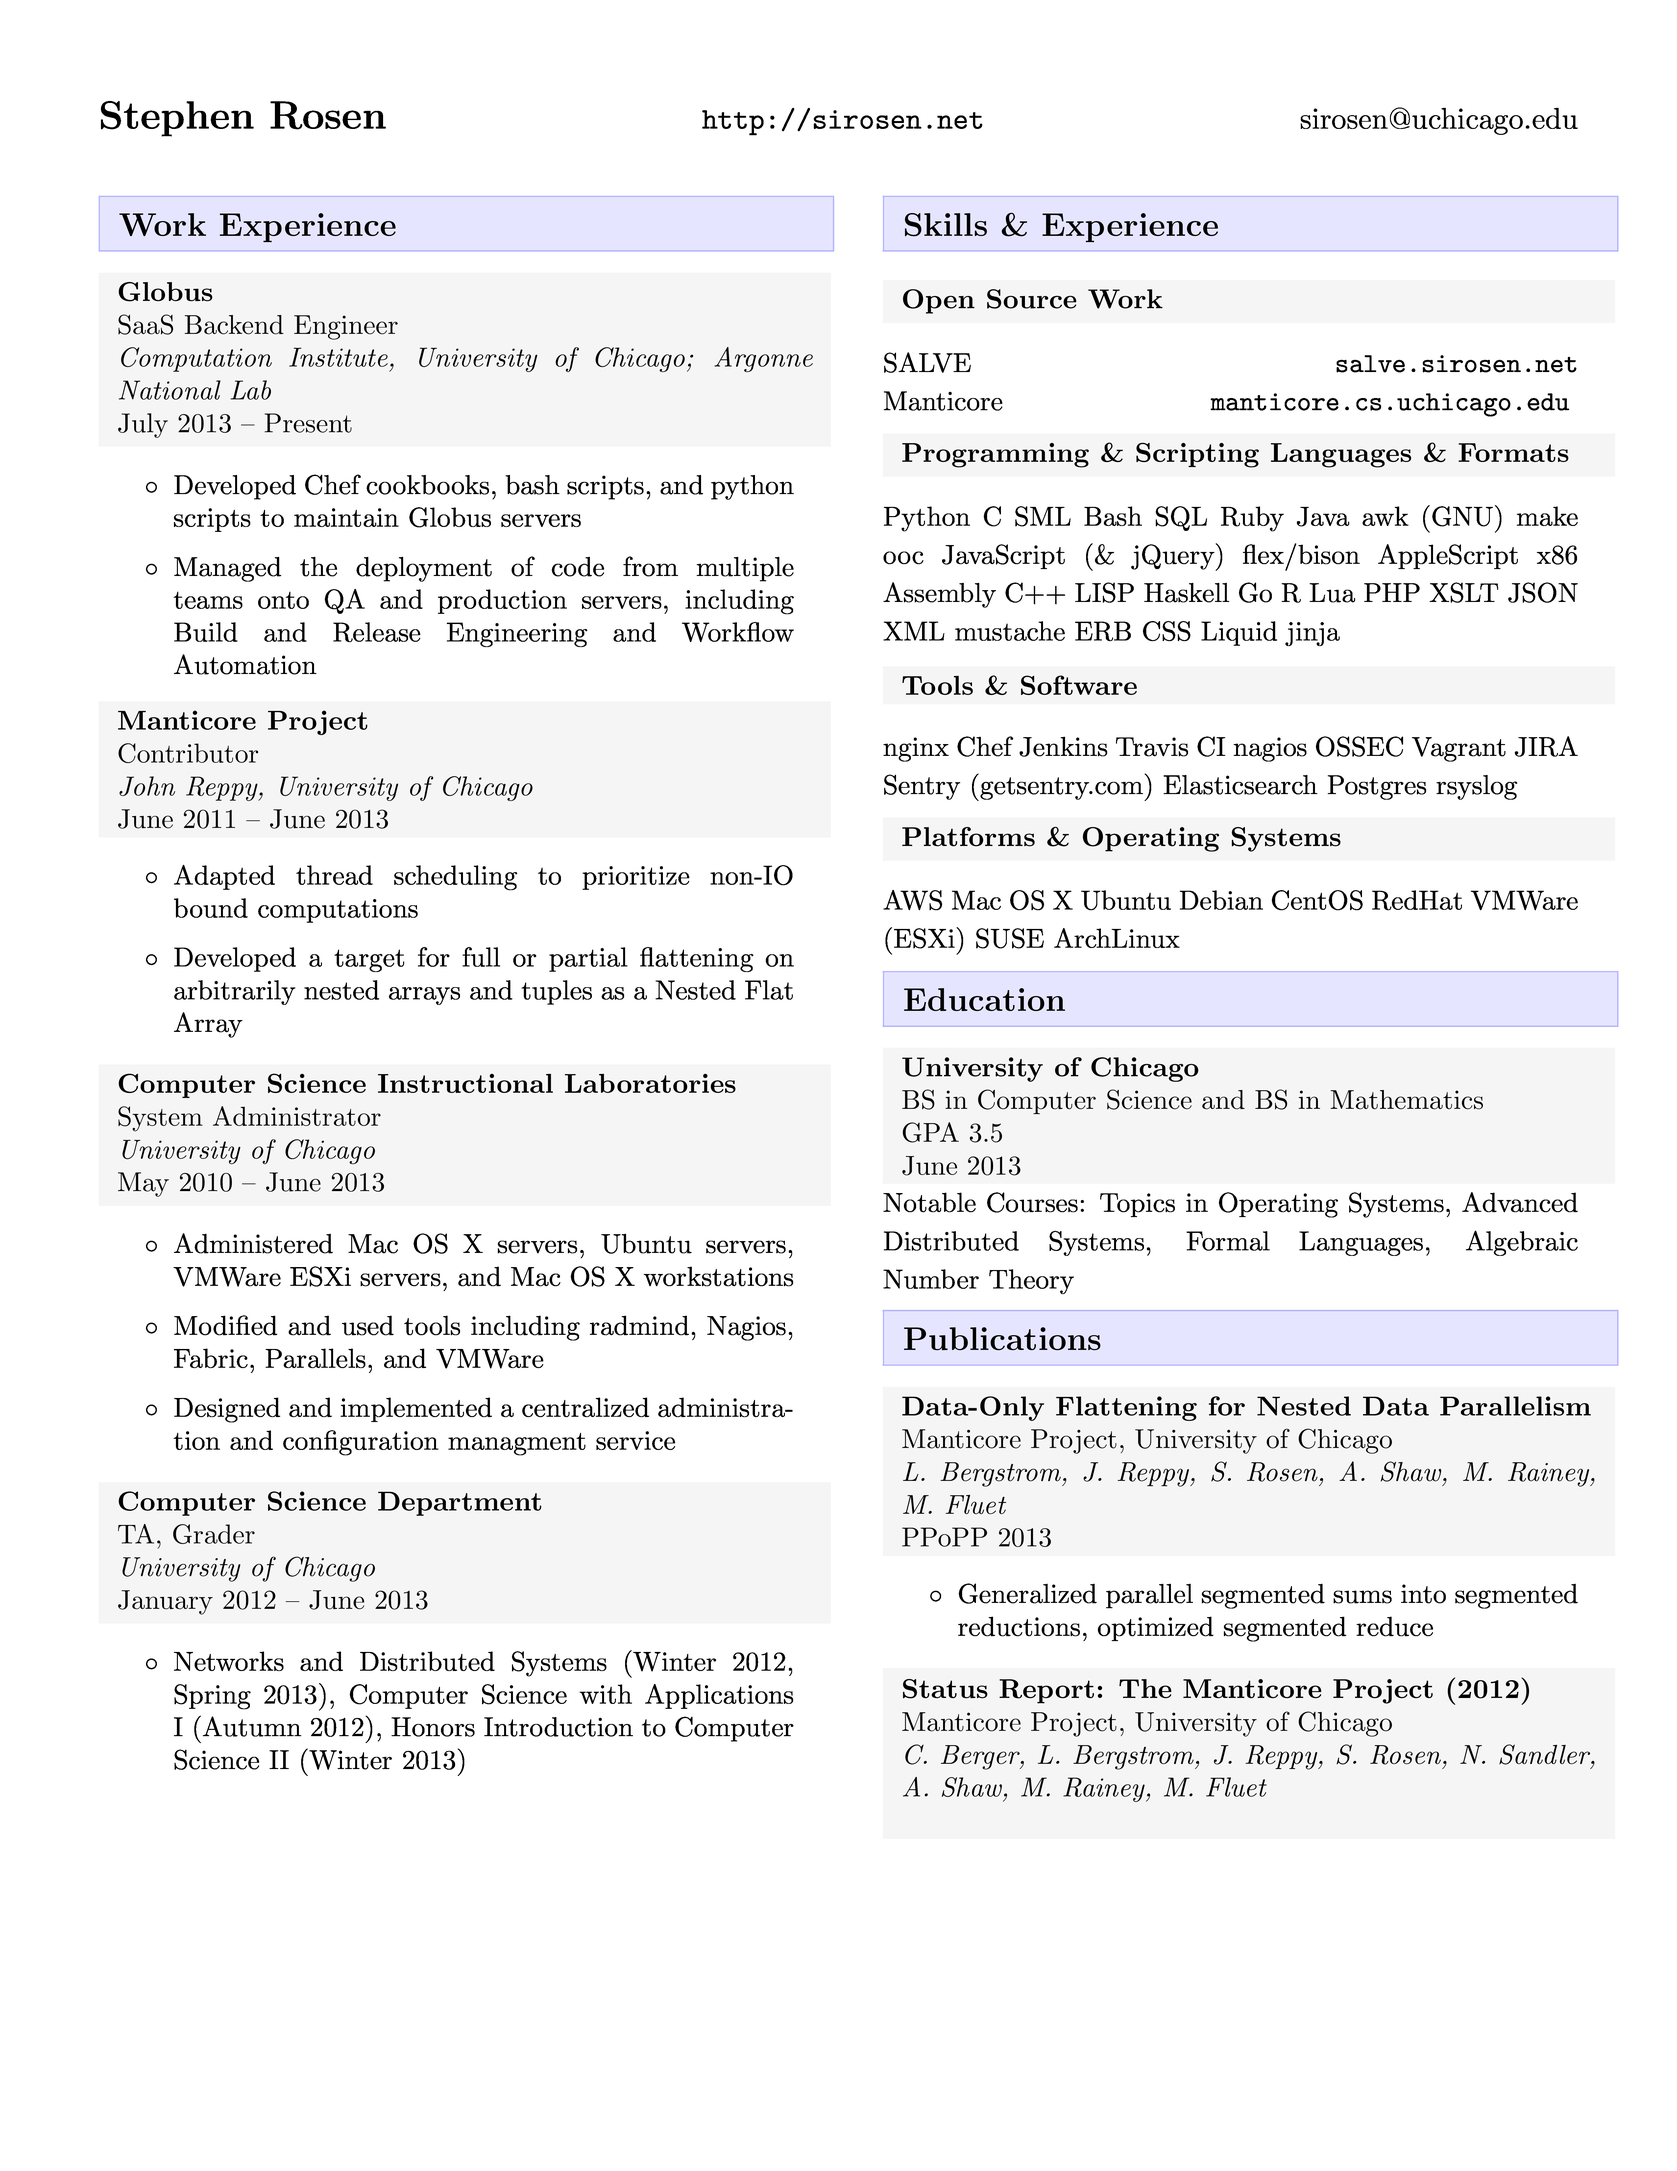
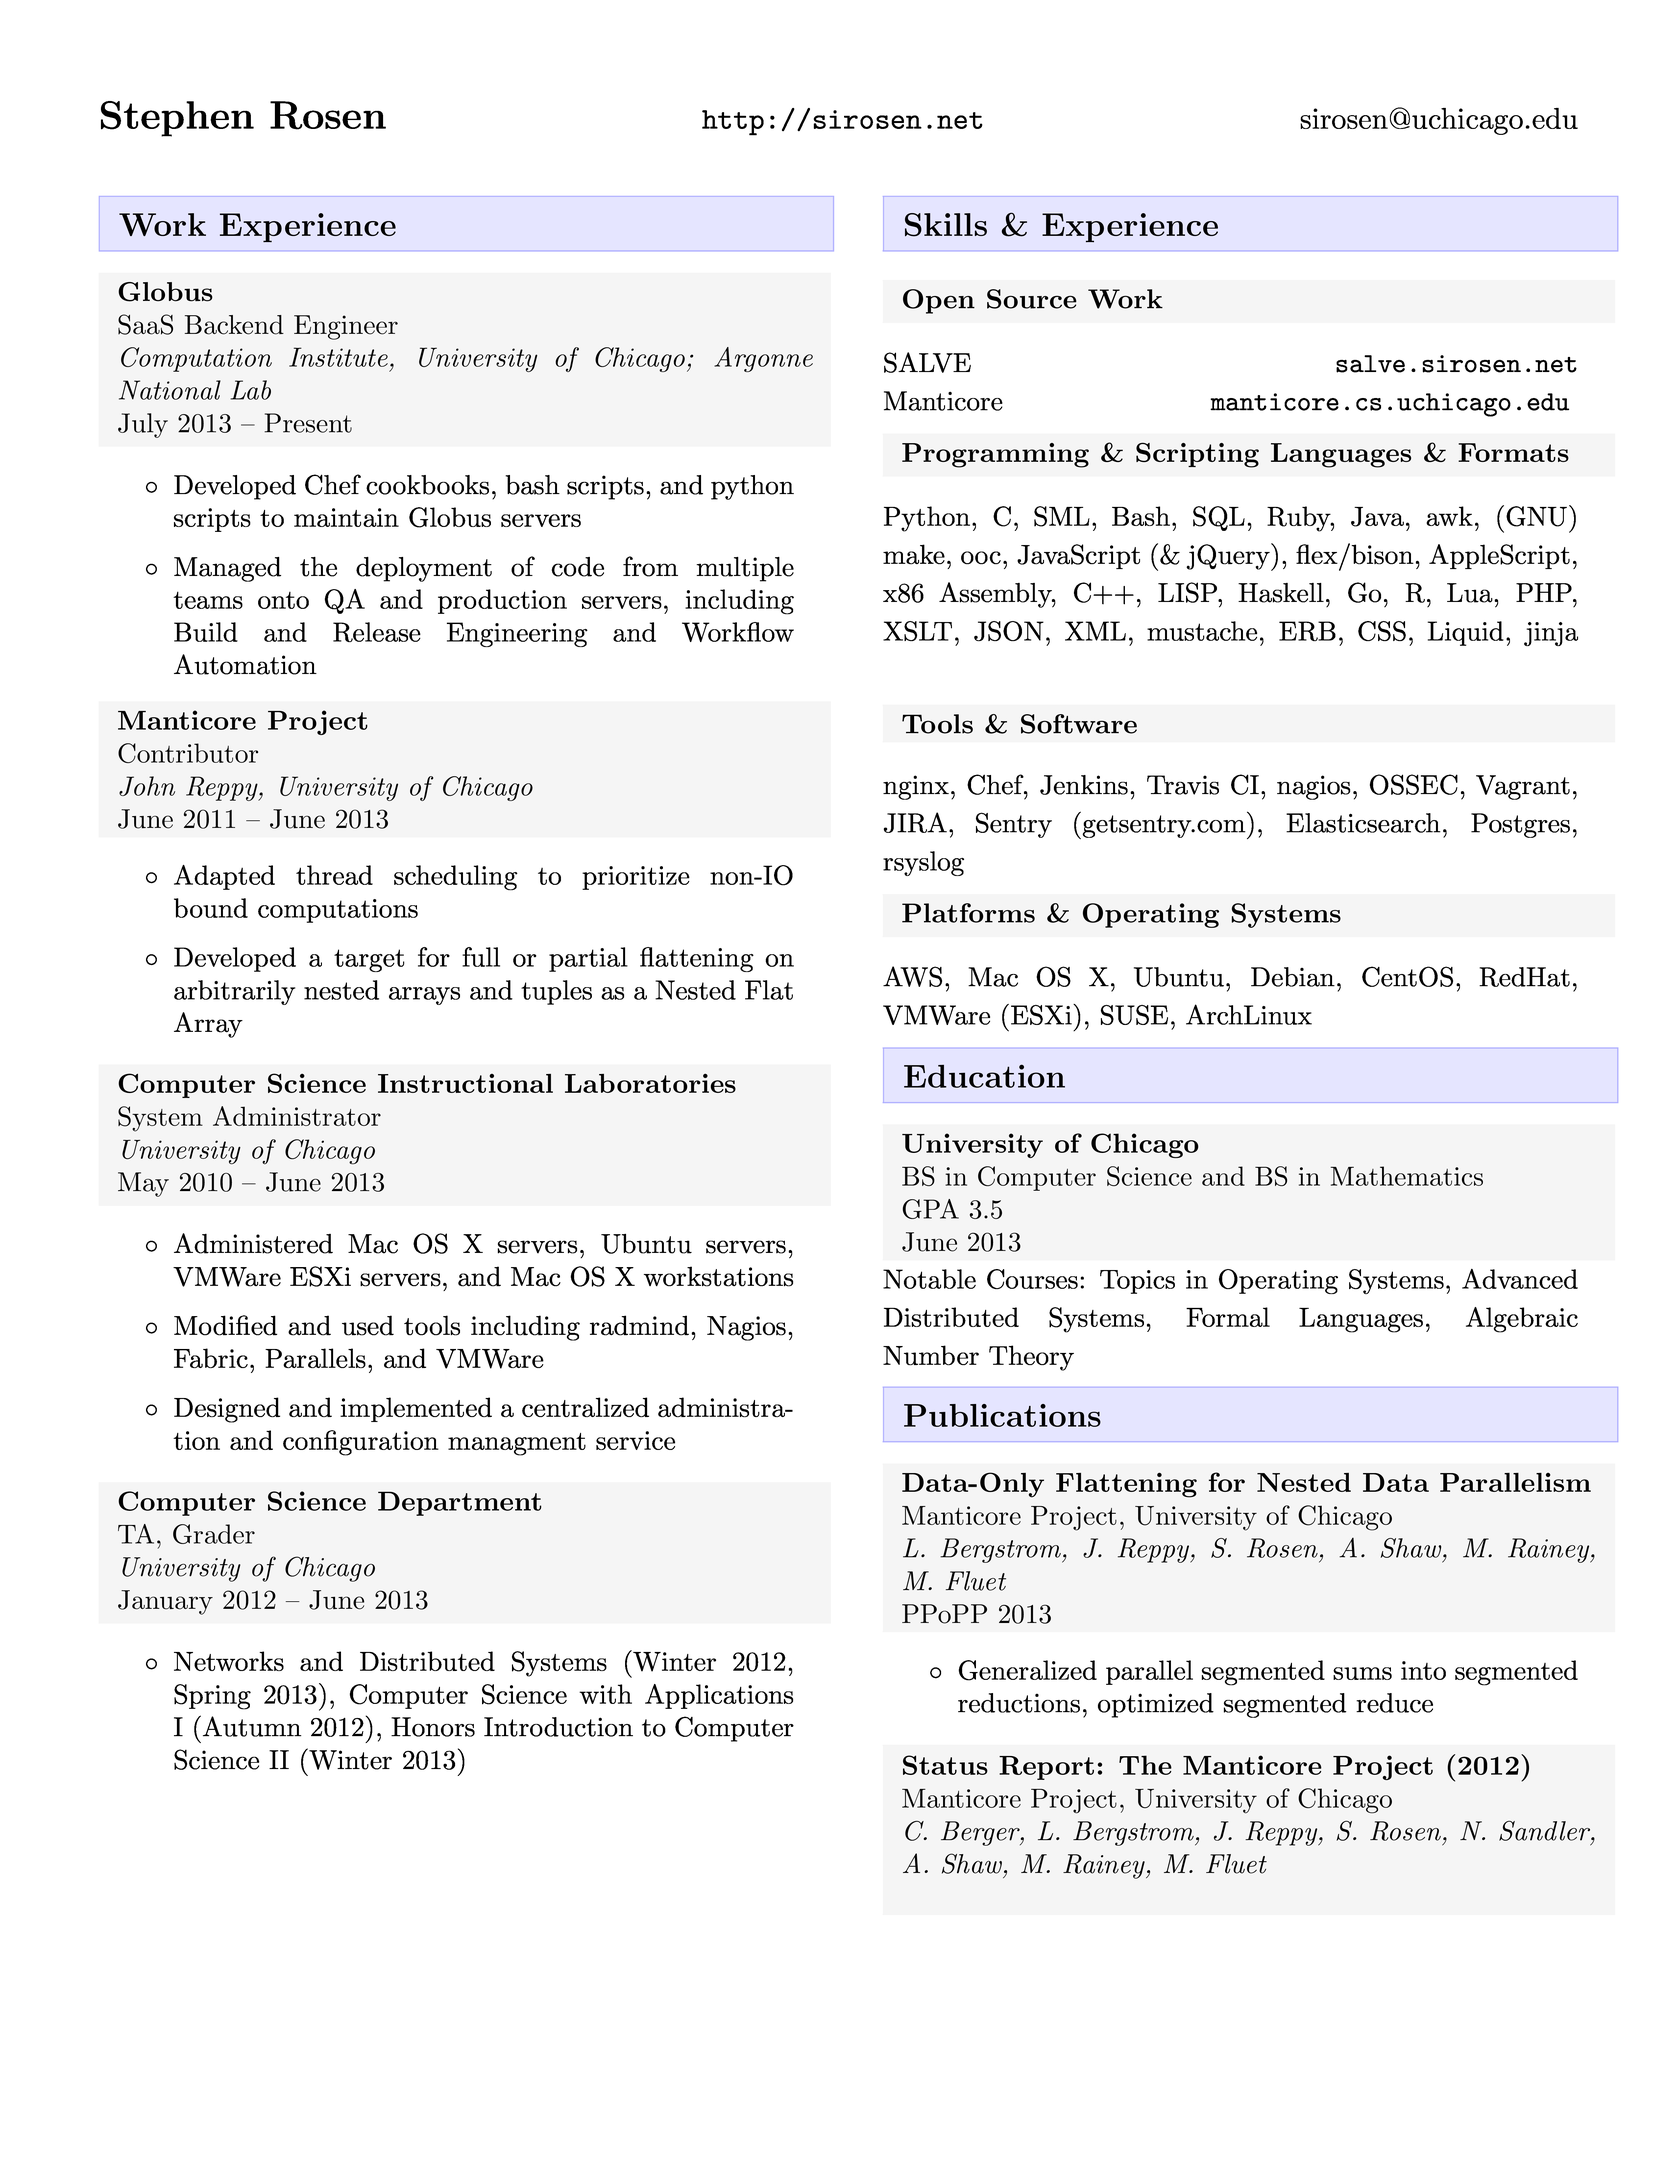
Fix to tex templating and commasep processing
A proc was using 'return' instead of 'next', which caused a confusing silent
failure to template. commasep was using '||' in the wrong place (and this was
better to handle outside of template files)

Changed region(s): [[0.53, 0.2185, 0.9665, 0.8739]]

diff --git a/output/resume.html b/output/resume.html
@@ -90,7 +90,7 @@
             <h2 class="subsection-title">Programming &amp; Scripting Languages &amp; Formats</h2>
 
             <div class="resume-items">
-                <p>Python C SML Bash SQL Ruby Java awk (GNU) make ooc JavaScript (&amp; jQuery) flex/bison AppleScript x86 Assembly C++ LISP Haskell Go R Lua PHP XSLT JSON XML mustache ERB CSS Liquid jinja</p>
+                <p>Python, C, SML, Bash, SQL, Ruby, Java, awk, (GNU) make, ooc, JavaScript (&amp; jQuery), flex/bison, AppleScript, x86 Assembly, C++, LISP, Haskell, Go, R, Lua, PHP, XSLT, JSON, XML, mustache, ERB, CSS, Liquid, jinja</p>
             </div>
 
         </div>
@@ -99,7 +99,7 @@
             <h2 class="subsection-title">Tools &amp; Software</h2>
 
             <div class="resume-items">
-                <p>nginx Chef Jenkins Travis CI nagios OSSEC Vagrant JIRA Sentry (getsentry.com) Elasticsearch Postgres rsyslog</p>
+                <p>nginx, Chef, Jenkins, Travis CI, nagios, OSSEC, Vagrant, JIRA, Sentry (getsentry.com), Elasticsearch, Postgres, rsyslog</p>
             </div>
 
         </div>
@@ -108,7 +108,7 @@
             <h2 class="subsection-title">Platforms &amp; Operating Systems</h2>
 
             <div class="resume-items">
-                <p>AWS Mac OS X Ubuntu Debian CentOS RedHat VMWare (ESXi) SUSE ArchLinux</p>
+                <p>AWS, Mac OS X, Ubuntu, Debian, CentOS, RedHat, VMWare (ESXi), SUSE, ArchLinux</p>
             </div>
 
         </div>

diff --git a/output/resume.tex b/output/resume.tex
@@ -1,0 +1,232 @@
+%-----------------------%
+% Resume                %
+% Author: Stephen Rosen %
+%-----------------------%
+
+\documentclass[letterpaper,11pt]{article}
+\usepackage{latexsym,amssymb}
+\usepackage{xcolor,enumitem}
+\usepackage[hidelinks]{hyperref}
+
+%-----------------------
+\pagestyle{empty}
+\usepackage[margin=0.5in]{geometry}
+
+\raggedright
+\lefthyphenmin=10
+%-----------------------
+
+%-----------------------
+
+%Command definitions
+
+\newenvironment{packed_itemize}{
+    \begin{small}
+    \setlength{\itemsep}{0pt}
+    \setlength{\parskip}{0pt}
+    \setlength{\parsep}{0pt}
+    \begin{itemize}[label=$\circ$]
+}{
+    \end{itemize}
+    \end{small}
+}
+
+
+\definecolor{bg}{rgb}{.9,.9,1}
+\definecolor{border}{rgb}{.7,.7,1}
+\newcommand{\resitem}[1]{
+    \large{
+    \fcolorbox{border}{bg}{
+        \parbox{\textwidth}{
+        \textbf{#1 \vphantom{p\^{E}}}
+        }
+    }
+    }
+}
+
+\definecolor{subbg}{gray}{.95}
+\newcommand{\ressub}[4]{
+\begin{small}
+    \fcolorbox{subbg}{subbg}{
+        \parbox{\textwidth}{
+            \textbf{#1}\\
+            #2\\
+            \textit{#3}\\
+            #4
+        }
+    }
+\end{small}
+\vspace{-0.4em}
+}
+
+\newcommand{\rawressub}[1]{
+\begin{small}
+    \fcolorbox{subbg}{subbg}{
+        \parbox{\textwidth}{
+            #1
+        }
+    }
+\end{small}
+\vspace{-0.4em}
+}
+
+\newcommand{\reshead}[3]{
+    \textbf{\Large #1} \hfill \url{#2} \hfill #3\\
+    \vspace{1em}
+}
+
+%-----------------------
+
+\begin{document}
+
+\reshead{Stephen Rosen}{http://sirosen.net}{sirosen@uchicago.edu}
+
+% Left side
+\begin{minipage}[t]{0.47\textwidth}
+\vspace{0pt}
+
+
+    \resitem{Work Experience}
+
+
+        \ressub
+          {Globus}
+          {SaaS Backend Engineer}
+          {Computation Institute, University of Chicago; Argonne National Lab}
+          {July 2013 -- Present}
+
+        \begin{packed_itemize}
+          \item Developed Chef cookbooks, bash scripts, and python scripts to maintain Globus servers
+          \item Managed the deployment of code from multiple teams onto QA and production servers, including Build and Release Engineering and Workflow Automation
+        \end{packed_itemize}
+
+
+        \ressub
+          {Manticore Project}
+          {Contributor}
+          {John Reppy, University of Chicago}
+          {June 2011 -- June 2013}
+
+        \begin{packed_itemize}
+          \item Adapted thread scheduling to prioritize non-IO bound computations
+          \item Developed a target for full or partial flattening on arbitrarily nested arrays and tuples as a Nested Flat Array
+        \end{packed_itemize}
+
+
+        \ressub
+          {Computer Science Instructional Laboratories}
+          {System Administrator}
+          {University of Chicago}
+          {May 2010 -- June 2013}
+
+        \begin{packed_itemize}
+          \item Administered Mac OS X servers, Ubuntu servers, VMWare ESXi servers, and Mac OS X workstations
+          \item Modified and used tools including radmind, Nagios, Fabric, Parallels, and VMWare
+          \item Designed and implemented a centralized administration and configuration managment service
+        \end{packed_itemize}
+
+
+        \ressub
+          {Computer Science Department}
+          {TA, Grader}
+          {University of Chicago}
+          {January 2012 -- June 2013}
+
+        \begin{packed_itemize}
+          \item Networks and Distributed Systems (Winter 2012, Spring 2013), Computer Science with Applications I (Autumn 2012), Honors Introduction to Computer Science II (Winter 2013)
+        \end{packed_itemize}
+
+
+
+\end{minipage}
+\hfill % Right hand side
+\begin{minipage}[t]{0.47\textwidth}
+\vspace{0pt}
+
+
+    \resitem{Skills \& Experience}
+
+
+        \rawressub{\textbf{Open Source Work}}
+
+      \begin{small}
+        SALVE\hfill\url{salve.sirosen.net}\\
+        Manticore\hfill\url{manticore.cs.uchicago.edu}
+      \vspace{0.5em}
+      \end{small}
+
+
+        \rawressub{\textbf{Programming \& Scripting Languages \& Formats}}
+
+      \begin{small}
+        Python, C, SML, Bash, SQL, Ruby, Java, awk, (GNU) make, ooc, JavaScript (\& jQuery), flex/bison, AppleScript, x86 Assembly, C++, LISP, Haskell, Go, R, Lua, PHP, XSLT, JSON, XML, mustache, ERB, CSS, Liquid, jinja
+      \vspace{0.5em}
+      \end{small}
+
+
+        \rawressub{\textbf{Tools \& Software}}
+
+      \begin{small}
+        nginx, Chef, Jenkins, Travis CI, nagios, OSSEC, Vagrant, JIRA, Sentry (getsentry.com), Elasticsearch, Postgres, rsyslog
+      \vspace{0.5em}
+      \end{small}
+
+
+        \rawressub{\textbf{Platforms \& Operating Systems}}
+
+      \begin{small}
+        AWS, Mac OS X, Ubuntu, Debian, CentOS, RedHat, VMWare (ESXi), SUSE, ArchLinux
+      \vspace{0.5em}
+      \end{small}
+
+
+
+
+    \resitem{Education}
+
+
+        \ressub
+          {University of Chicago}
+          {BS in Computer Science and BS in Mathematics}
+          {\textup{GPA 3.5}}
+          {June 2013}
+
+      \begin{small}
+        Notable Courses: Topics in Operating Systems, Advanced Distributed Systems, Formal Languages, Algebraic Number Theory
+      \vspace{0.5em}
+      \end{small}
+
+
+
+
+    \resitem{Publications}
+
+
+        \ressub
+          {Data-Only Flattening for Nested Data Parallelism}
+          {Manticore Project, University of Chicago}
+          {L. Bergstrom, J. Reppy, S. Rosen, A. Shaw, M. Rainey, M. Fluet}
+          {PPoPP 2013}
+
+        \begin{packed_itemize}
+          \item Generalized parallel segmented sums into segmented reductions, optimized segmented reduce
+        \end{packed_itemize}
+
+
+        \ressub
+          {Status Report: The Manticore Project (2012)}
+          {Manticore Project, University of Chicago}
+          {C. Berger, L. Bergstrom, J. Reppy, S. Rosen, N. Sandler, A. Shaw, M. Rainey, M. Fluet}
+          {}
+
+      \begin{small}
+      \vspace{0.5em}
+      \end{small}
+
+
+
+
+\end{minipage}
+
+
+\end{document}

diff --git a/src/render/common.rb b/src/render/common.rb
@@ -69,6 +69,10 @@ def process_subsections(section, func: nil)
       sub['itemstyle'] = 'list'
     end
 
+    if sub['itemstyle'] == 'commasep'
+      sub['separator'] = "#{sub['separator'] || ','} "
+    end
+
     if func
       sub = func.call(sub)
     end

diff --git a/src/render/tex.rb b/src/render/tex.rb
@@ -55,7 +55,7 @@ def render_to_tex(sourcefile, texfile)
         end
       end
 
-      return subsection
+      next subsection
     end
 
     section['sub'] = process_subsections(jsonsection,
